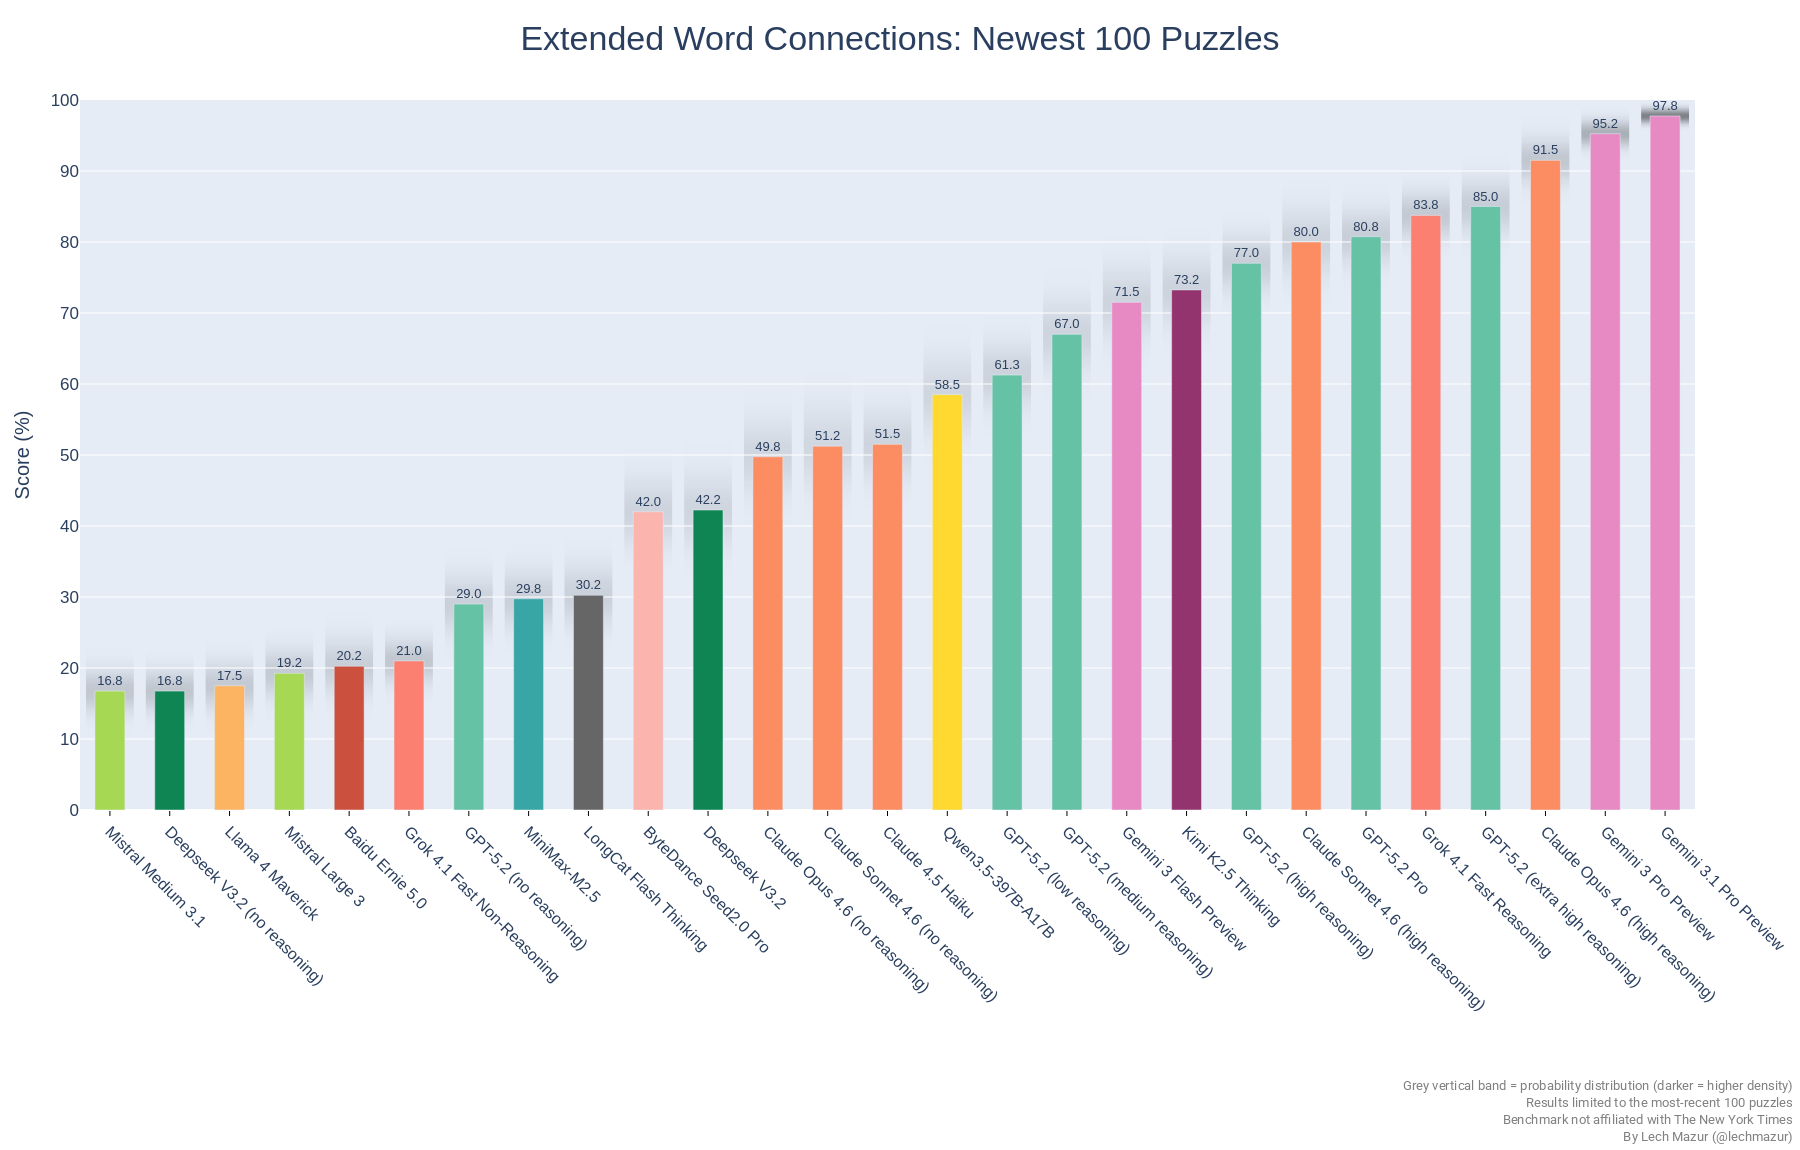
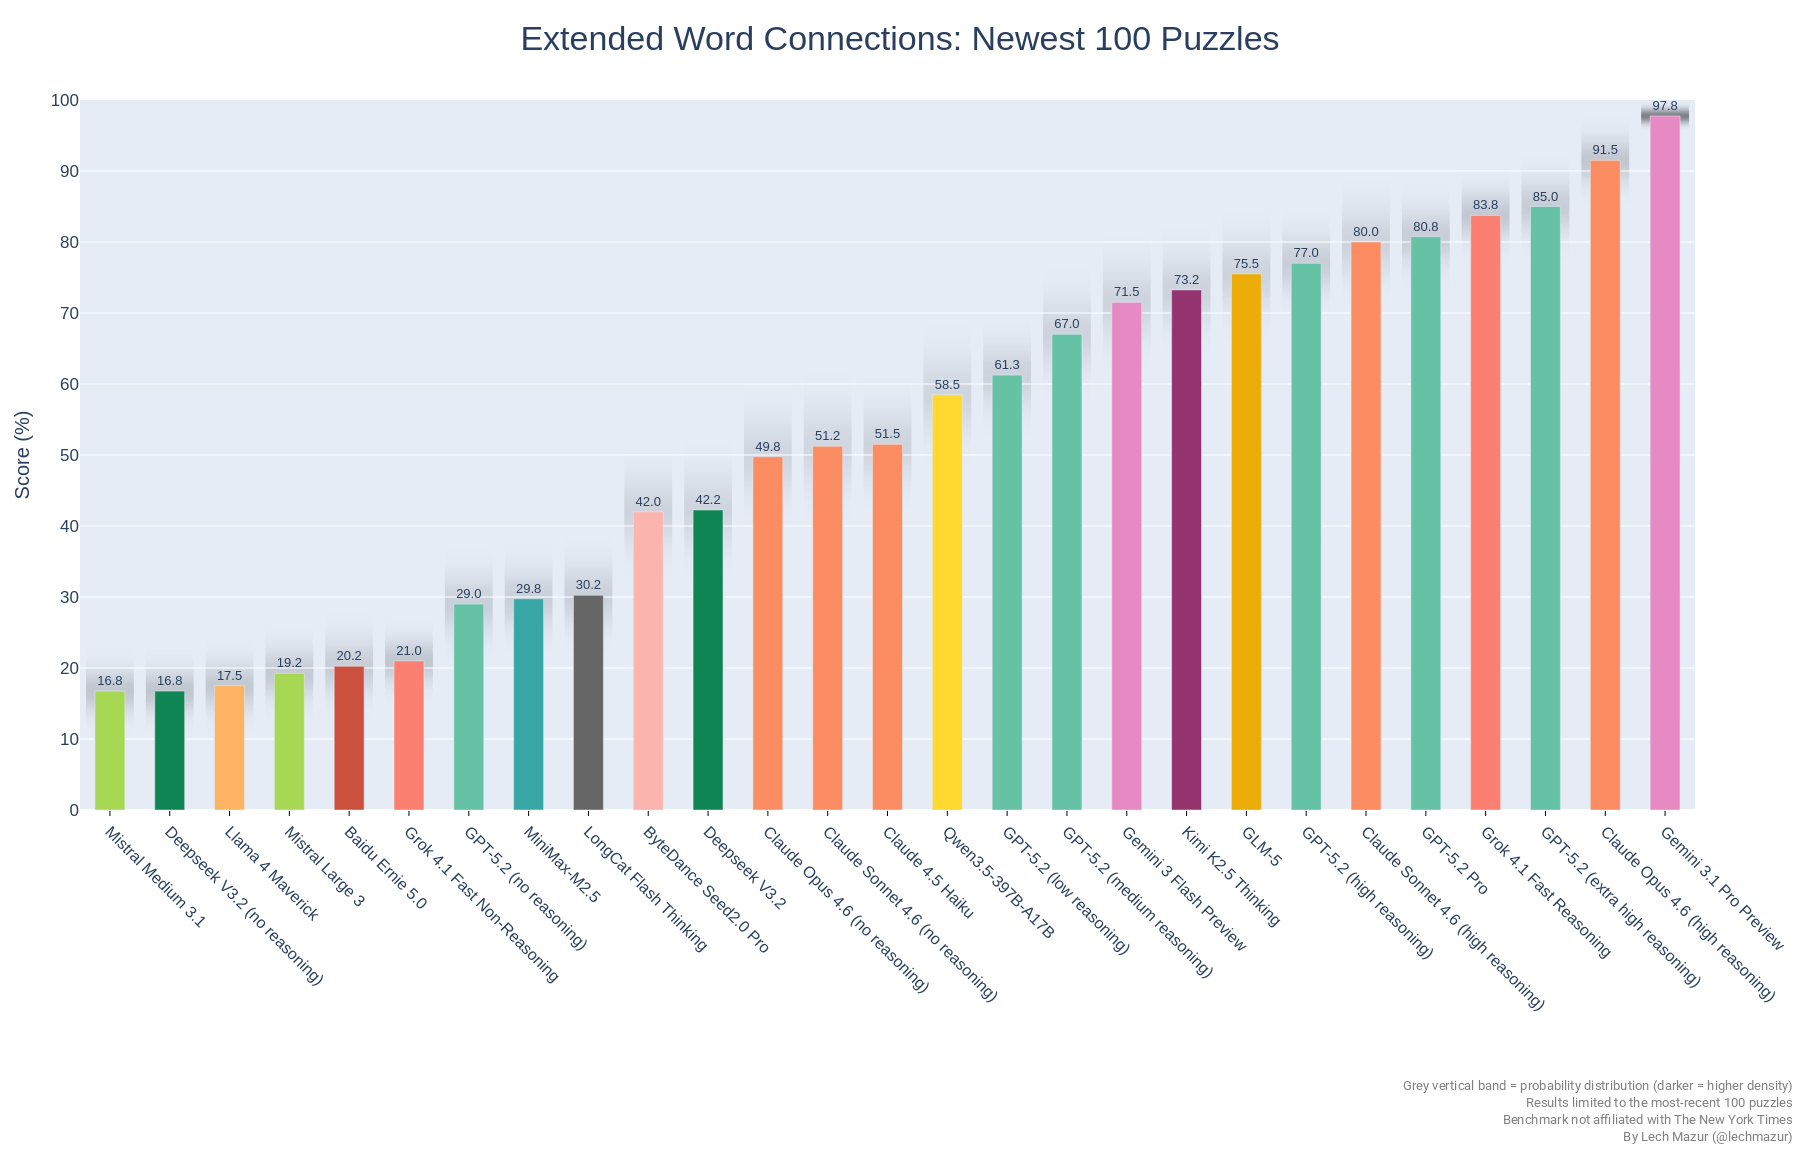
GLM-5 added

Changed region(s): [[0.6844, 0.0913, 0.9644, 0.8826]]

diff --git a/README.md b/README.md
@@ -15,151 +15,42 @@ As of Feb 4, 2025, there is a new version of the benchmark. The standard NYT Con
 |1|Gemini 3.1 Pro Preview|98.4|940|
 |2|Gemini 3 Pro Preview|96.3|940|
 |3|Claude Opus 4.6 (high reasoning)|94.7|940|
-|4|Sherlock Think Alpha|92.4|759|
-|5|Grok 4 Fast Reasoning|92.1|759|
-|6|Grok 4|91.7|759|
-|7|Grok 4.1 Fast Reasoning|91.7|940|
-|8|Sonoma Sky Alpha|90.7|759|
-|9|GPT-5.2 (extra high reasoning)|88.6|940|
-|10|Gemini 3 Flash Preview|88.4|940|
-|11|o3-pro (medium reasoning)|87.3|759|
-|12|GPT-5.2 Pro|85.7|940|
-|13|Claude Sonnet 4.6 (high reasoning)|85.7|940|
-|14|GPT-5 Pro|83.9|759|
-|15|glm-5|83.1|869|
-|16|o1-pro (medium reasoning)|82.5|651|
-|17|Claude Sonnet 4.6 Thinking 32K|82.4|940|
-|18|Claude Opus 4.6 Thinking 16K|81.7|940|
-|19|o3 (high reasoning)|78.6|759|
-|20|Kimi K2.5 Thinking|78.3|940|
-|21|GPT-5.2 (high reasoning)|77.5|940|
-|22|GPT-5 (high reasoning)|77.0|759|
-|23|o4-mini (high reasoning)|73.6|759|
-|24|o3 (medium reasoning)|73.0|759|
-|25|GPT-5 (medium reasoning)|72.2|759|
-|26|GPT-5.2 (medium reasoning)|71.4|940|
-|27|o1 (medium reasoning)|70.8|651|
-|28|GPT-5.1 (high reasoning)|69.9|759|
-|29|Qwen3.5-397B-A17B|69.2|940|
-|30|o4-mini (medium reasoning)|68.8|651|
-|31|GPT-5 mini (medium reasoning)|66.9|759|
-|32|GPT-5.2 (low reasoning)|66.7|940|
-|33|GPT-5 (low reasoning)|65.4|759|
-|34|GPT-5.1 (medium reasoning)|62.7|759|
-|35|Claude Opus 4.5 Thinking 16K|62.6|940|
-|36|o3-mini (high reasoning)|61.4|651|
-|37|Claude Opus 4.5 (no reasoning)|60.3|940|
-|38|GLM-4.7|59.5|767|
-|39|Claude Opus 4.1 Thinking 16K|58.8|759|
-|40|DeepSeek V3.1 Reasoner|57.7|759|
-|41|Gemini 2.5 Pro|57.6|759|
-|42|Claude Sonnet 4.6 Thinking 16K|57.6|940|
-|43|Kimi K2 Thinking 64K|57.3|924|
-|44|Claude Opus 4.6 (no reasoning)|56.7|940|
-|45|Claude Sonnet 4.6 (no reasoning)|55.2|940|
-|46|Qwen 3 235B A22B|54.3|759|
-|47|Gemini 2.5 Pro Exp 03-25|54.1|651|
-|48|o3-mini (medium reasoning)|53.6|651|
-|49|Deepseek V3.2|50.2|940|
-|50|Claude Opus 4 Thinking 16K|49.7|759|
-|51|Claude Sonnet 4.5 Thinking 16K|49.3|940|
-|52|DeepSeek R1 05/28|48.6|759|
-|53|Claude Sonnet 4.5 (no reasoning)|47.4|940|
-|54|Qwen 3 235B A22B 25-07 Think|46.2|759|
-|55|Gemini 2.5 Pro Preview 05-06|42.5|651|
-|56|ByteDance Seed2.0 Pro|42.1|940|
-|57|Qwen3 Max (2026-01-23)|41.8|940|
-|58|Claude Sonnet 4 Thinking 16K|40.3|759|
-|59|Claude Sonnet 4 Thinking 64K|39.6|651|
-|60|GPT-OSS-120B|38.7|759|
-|61|DeepSeek R1|38.6|651|
-|62|Claude Opus 4.1 (no reasoning)|37.1|759|
-|63|Qwen 3 30B A3B|36.6|759|
-|64|Qwen 3 32B|35.8|759|
-|65|Qwen 3 30B A3B 25-07 Thinking|35.5|759|
-|66|Claude Opus 4 (no reasoning)|34.4|759|
-|67|GPT-4.5 Preview|34.2|651|
-|68|Claude 3.7 Sonnet Thinking 16K|33.6|651|
-|69|Qwen 3 Next 80B A3B Thinking|32.9|759|
-|70|Qwen QwQ-32B 16K|31.4|651|
-|71|LongCat Flash Thinking|31.0|940|
-|72|Grok 3 Mini Beta (high)|30.2|759|
-|73|GLM-4.5|30.2|759|
-|74|MiniMax-M2.5|29.6|940|
-|75|GPT-5.2 (no reasoning)|28.1|940|
-|76|Claude Opus 4.6 Thinking 32K|28.1|98|
-|77|GPT-5 (minimal reasoning)|27.3|759|
-|78|MiniMax-M2|27.0|940|
-|79|o1-mini|26.9|651|
-|80|Claude Sonnet 4 (no reasoning)|26.6|759|
-|81|Grok 3 Mini Beta (low)|26.0|651|
-|82|Claude 4.5 Haiku|25.9|940|
-|83|Quasar Alpha|25.4|651|
-|84|Cohere Command A Reasoning 16K|25.3|759|
-|85|Gemini 2.5 Flash|25.2|759|
-|86|Sherlock Dash Alpha|25.1|759|
-|87|Grok 4.1 Fast Non-Reasoning|25.0|940|
-|88|Grok 4 Fast Non-Reasoning|24.9|759|
-|89|GPT-4o Mar 2025|24.5|759|
-|90|GLM-4.6|24.2|759|
-|91|Qwen 3 Max Thinking|24.1|940|
-|92|Qwen 3 Max Preview|23.9|759|
-|93|Kimi K2-0905|23.6|759|
-|94|Gemini 2.0 Flash Think Exp 01-21|23.1|649|
-|95|GPT-4.1|22.8|759|
-|96|Sonoma Dusk Alpha|22.8|759|
-|97|MiniMax-M2.1|22.7|940|
-|98|GPT-4o Feb 2025|22.7|651|
-|99|GPT-5.1 (no reasoning)|22.1|759|
-|100|Polaris Alpha|21.8|759|
-|101|Gemini 2.0 Pro Exp 02-05|21.7|651|
-|102|DeepSeek V3.1 Non-Think|21.6|759|
-|103|MiniMax-M1|21.3|688|
-|104|Baidu Ernie 5.0|21.2|940|
-|105|Kimi K2|19.8|759|
-|106|Qwen 3 235B A22B 25-07 Instruct|19.8|759|
-|107|Grok 3 Beta (no reasoning)|19.7|759|
-|108|Grok 2 12-12|19.2|651|
-|109|Gemini 1.5 Pro (Sept)|19.2|601|
-|110|Claude 3 Opus|19.2|650|
-|111|Claude 3.7 Sonnet|19.2|651|
-|112|Gemini 2.0 Flash|18.8|651|
-|113|GPT-4o 2024-11-20|18.7|601|
-|114|Llama 4 Maverick|18.4|940|
-|115|Qwen 2.5 Max|18.0|651|
-|116|Deepseek V3.2 (no reasoning)|17.8|940|
-|117|GPT-4o 2024-08-06|17.8|601|
-|118|Claude 3.5 Sonnet 2024-10-22|17.7|651|
-|119|Llama 4 Scout|17.4|759|
-|120|Mistral Large 3|17.2|940|
-|121|DeepSeek V3-0324|16.8|759|
-|122|Llama 3.1 405B|16.2|651|
-|123|Mistral Medium 3.1|15.5|940|
-|124|DeepSeek V3|15.1|651|
-|125|Llama 3.3 70B|15.1|651|
-|126|Baidu Ernie 4.5 300B A47B|14.8|759|
-|127|GPT-4.1 mini|14.4|759|
-|128|LongCat Flash|13.9|660|
-|129|MiniMax-Text-01|13.8|759|
-|130|Cohere Command A|13.1|759|
-|131|Mistral Large 2|12.4|759|
-|132|Gemma 2 27B|12.2|651|
-|133|Gemma 3 27B|11.6|759|
-|134|Mistral Medium 3|11.5|759|
-|135|Mistral Small 3.1|11.4|651|
-|136|Mistral Small 3.2|11.2|759|
-|137|Qwen 2.5 72B|10.5|759|
-|138|Claude 3.5 Haiku|10.0|759|
-|139|Amazon Nova Pro|9.9|759|
-|140|Microsoft Phi-4|9.9|759|
-|141|GPT-4o mini|9.7|759|
-|142|Mistral Small 3|8.9|601|
-|143|GPT-4.1 nano|8.1|759|
-|144|GLM4-32B-0414|7.6|759|
-|145|Claude 3 Haiku|2.2|601|
-
-
-
+|4|Grok 4.1 Fast Reasoning|91.7|940|
+|5|GPT-5.2 (extra high reasoning)|88.6|940|
+|6|Gemini 3 Flash Preview|88.4|940|
+|7|GPT-5.2 Pro|85.7|940|
+|8|Claude Sonnet 4.6 (high reasoning)|85.7|940|
+|9|Claude Sonnet 4.6 Thinking 32K|82.4|940|
+|10|GLM-5|81.8|940|
+|11|Claude Opus 4.6 Thinking 16K|81.7|940|
+|12|Kimi K2.5 Thinking|78.3|940|
+|13|GPT-5.2 (high reasoning)|77.5|940|
+|14|GPT-5.2 (medium reasoning)|71.4|940|
+|15|Qwen3.5-397B-A17B|69.2|940|
+|16|GPT-5.2 (low reasoning)|66.7|940|
+|17|Claude Opus 4.5 Thinking 16K|62.6|940|
+|18|Claude Opus 4.5 (no reasoning)|60.3|940|
+|19|Claude Sonnet 4.6 Thinking 16K|57.6|940|
+|20|Claude Opus 4.6 (no reasoning)|56.7|940|
+|21|Claude Sonnet 4.6 (no reasoning)|55.2|940|
+|22|Deepseek V3.2|50.2|940|
+|23|Claude Sonnet 4.5 Thinking 16K|49.3|940|
+|24|Claude Sonnet 4.5 (no reasoning)|47.4|940|
+|25|ByteDance Seed2.0 Pro|42.1|940|
+|26|Qwen3 Max (2026-01-23)|41.8|940|
+|27|LongCat Flash Thinking|31.0|940|
+|28|MiniMax-M2.5|29.6|940|
+|29|GPT-5.2 (no reasoning)|28.1|940|
+|30|MiniMax-M2|27.0|940|
+|31|Claude 4.5 Haiku|25.9|940|
+|32|Grok 4.1 Fast Non-Reasoning|25.0|940|
+|33|Qwen 3 Max Thinking|24.1|940|
+|34|MiniMax-M2.1|22.7|940|
+|35|Baidu Ernie 5.0|21.2|940|
+|36|Llama 4 Maverick|18.4|940|
+|37|Deepseek V3.2 (no reasoning)|17.8|940|
+|38|Mistral Large 3|17.2|940|
+|39|Mistral Medium 3.1|15.5|940|
 
 
 
@@ -239,6 +130,120 @@ This benchmark evaluates large language models (LLMs) using 436 NYT Connections 
 | Mistral Small 3 | 10.5
 | DeepSeek-V2.5 | 9.9
 
+### Leaderboard: Older models
+
+These models are excluded from the main board because they ran fewer than 940 total puzzles.
+
+|Rank|Model|Score %|#Puzzles (window)|Total Coverage|
+|---:|-----|------:|-----------------:|-------------:|
+|1|Sherlock Think Alpha|92.4|759|759/940|
+|2|Grok 4 Fast Reasoning|92.1|759|759/940|
+|3|Grok 4|91.7|759|759/940|
+|4|Sonoma Sky Alpha|90.7|759|759/940|
+|5|o3-pro (medium reasoning)|87.3|759|759/940|
+|6|GPT-5 Pro|83.9|759|759/940|
+|7|o1-pro (medium reasoning)|82.5|651|651/940|
+|8|o3 (high reasoning)|78.6|759|759/940|
+|9|GPT-5 (high reasoning)|77.0|759|759/940|
+|10|o4-mini (high reasoning)|73.6|759|759/940|
+|11|o3 (medium reasoning)|73.0|759|759/940|
+|12|GPT-5 (medium reasoning)|72.2|759|759/940|
+|13|o1 (medium reasoning)|70.8|651|651/940|
+|14|GPT-5.1 (high reasoning)|69.9|759|759/940|
+|15|o4-mini (medium reasoning)|68.8|651|651/940|
+|16|GPT-5 mini (medium reasoning)|66.9|759|759/940|
+|17|GPT-5 (low reasoning)|65.4|759|759/940|
+|18|GPT-5.1 (medium reasoning)|62.7|759|759/940|
+|19|o3-mini (high reasoning)|61.4|651|651/940|
+|20|GLM-4.7|59.5|767|767/940|
+|21|Claude Opus 4.1 Thinking 16K|58.8|759|759/940|
+|22|DeepSeek V3.1 Reasoner|57.7|759|759/940|
+|23|Gemini 2.5 Pro|57.6|759|759/940|
+|24|Kimi K2 Thinking 64K|57.3|924|924/940|
+|25|Qwen 3 235B A22B|54.3|759|759/940|
+|26|Gemini 2.5 Pro Exp 03-25|54.1|651|651/940|
+|27|o3-mini (medium reasoning)|53.6|651|651/940|
+|28|Claude Opus 4 Thinking 16K|49.7|759|759/940|
+|29|DeepSeek R1 05/28|48.6|759|759/940|
+|30|Qwen 3 235B A22B 25-07 Think|46.2|759|759/940|
+|31|Gemini 2.5 Pro Preview 05-06|42.5|651|651/940|
+|32|Claude Sonnet 4 Thinking 16K|40.3|759|759/940|
+|33|Claude Sonnet 4 Thinking 64K|39.6|651|651/940|
+|34|GPT-OSS-120B|38.7|759|759/940|
+|35|DeepSeek R1|38.6|651|651/940|
+|36|Claude Opus 4.1 (no reasoning)|37.1|759|759/940|
+|37|Qwen 3 30B A3B|36.6|759|759/940|
+|38|Qwen 3 32B|35.8|759|759/940|
+|39|Qwen 3 30B A3B 25-07 Thinking|35.5|759|759/940|
+|40|Claude Opus 4 (no reasoning)|34.4|759|759/940|
+|41|GPT-4.5 Preview|34.2|651|651/940|
+|42|Claude 3.7 Sonnet Thinking 16K|33.6|651|651/940|
+|43|Qwen 3 Next 80B A3B Thinking|32.9|759|759/940|
+|44|Qwen QwQ-32B 16K|31.4|651|651/940|
+|45|Grok 3 Mini Beta (high)|30.2|759|759/940|
+|46|GLM-4.5|30.2|759|759/940|
+|47|Claude Opus 4.6 Thinking 32K|28.1|98|98/940|
+|48|GPT-5 (minimal reasoning)|27.3|759|759/940|
+|49|o1-mini|26.9|651|651/940|
+|50|Claude Sonnet 4 (no reasoning)|26.6|759|759/940|
+|51|Grok 3 Mini Beta (low)|26.0|651|651/940|
+|52|Quasar Alpha|25.4|651|651/940|
+|53|Cohere Command A Reasoning 16K|25.3|759|759/940|
+|54|Gemini 2.5 Flash|25.2|759|759/940|
+|55|Sherlock Dash Alpha|25.1|759|759/940|
+|56|Grok 4 Fast Non-Reasoning|24.9|759|759/940|
+|57|GPT-4o Mar 2025|24.5|759|759/940|
+|58|GLM-4.6|24.2|759|759/940|
+|59|Qwen 3 Max Preview|23.9|759|759/940|
+|60|Kimi K2-0905|23.6|759|759/940|
+|61|Gemini 2.0 Flash Think Exp 01-21|23.1|649|649/940|
+|62|GPT-4.1|22.8|759|759/940|
+|63|Sonoma Dusk Alpha|22.8|759|759/940|
+|64|GPT-4o Feb 2025|22.7|651|651/940|
+|65|GPT-5.1 (no reasoning)|22.1|759|759/940|
+|66|Polaris Alpha|21.8|759|759/940|
+|67|Gemini 2.0 Pro Exp 02-05|21.7|651|651/940|
+|68|DeepSeek V3.1 Non-Think|21.6|759|759/940|
+|69|MiniMax-M1|21.3|688|688/940|
+|70|Kimi K2|19.8|759|759/940|
+|71|Qwen 3 235B A22B 25-07 Instruct|19.8|759|759/940|
+|72|Grok 3 Beta (no reasoning)|19.7|759|759/940|
+|73|Grok 2 12-12|19.2|651|651/940|
+|74|Gemini 1.5 Pro (Sept)|19.2|601|601/940|
+|75|Claude 3 Opus|19.2|650|650/940|
+|76|Claude 3.7 Sonnet|19.2|651|651/940|
+|77|Gemini 2.0 Flash|18.8|651|651/940|
+|78|GPT-4o 2024-11-20|18.7|601|601/940|
+|79|Qwen 2.5 Max|18.0|651|651/940|
+|80|GPT-4o 2024-08-06|17.8|601|601/940|
+|81|Claude 3.5 Sonnet 2024-10-22|17.7|651|651/940|
+|82|Llama 4 Scout|17.4|759|759/940|
+|83|DeepSeek V3-0324|16.8|759|759/940|
+|84|Llama 3.1 405B|16.2|651|651/940|
+|85|DeepSeek V3|15.1|651|651/940|
+|86|Llama 3.3 70B|15.1|651|651/940|
+|87|Baidu Ernie 4.5 300B A47B|14.8|759|759/940|
+|88|GPT-4.1 mini|14.4|759|759/940|
+|89|LongCat Flash|13.9|660|660/940|
+|90|MiniMax-Text-01|13.8|759|759/940|
+|91|Cohere Command A|13.1|759|759/940|
+|92|Mistral Large 2|12.4|759|759/940|
+|93|Gemma 2 27B|12.2|651|651/940|
+|94|Gemma 3 27B|11.6|759|759/940|
+|95|Mistral Medium 3|11.5|759|759/940|
+|96|Mistral Small 3.1|11.4|651|651/940|
+|97|Mistral Small 3.2|11.2|759|759/940|
+|98|Qwen 2.5 72B|10.5|759|759/940|
+|99|Claude 3.5 Haiku|10.0|759|759/940|
+|100|Amazon Nova Pro|9.9|759|759/940|
+|101|Microsoft Phi-4|9.9|759|759/940|
+|102|GPT-4o mini|9.7|759|759/940|
+|103|Mistral Small 3|8.9|601|601/940|
+|104|GPT-4.1 nano|8.1|759|759/940|
+|105|GLM4-32B-0414|7.6|759|759/940|
+|106|Claude 3 Haiku|2.2|601|601/940|
+
+
 ---
 
 ## Notes
@@ -269,6 +274,7 @@ This benchmark evaluates large language models (LLMs) using 436 NYT Connections 
 ---
 
 ## Updates
+- Feb 23, 2026: GLM-5 added.
 - Feb 20, 2026: Gemini 3.1 Pro Preview, ByteDance Seed2.0 Pro, Baidu Ernie 5.0 added.
 - Feb 17, 2026: Claude Sonnet 4.6, Qwen3.5-397B-A17B, MiniMax-M2.5 added.
 - Feb 6, 2026: Claude Opus 4.6 added.
